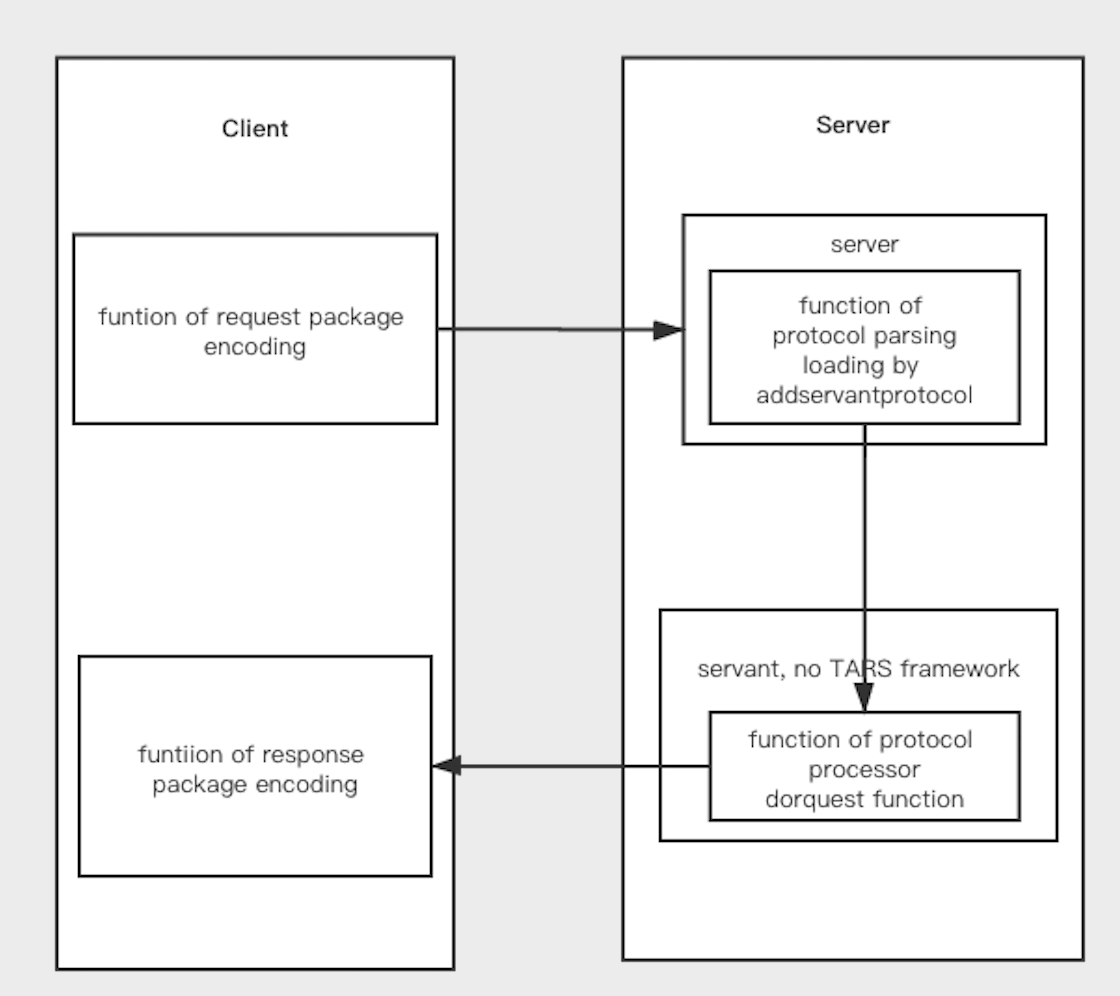
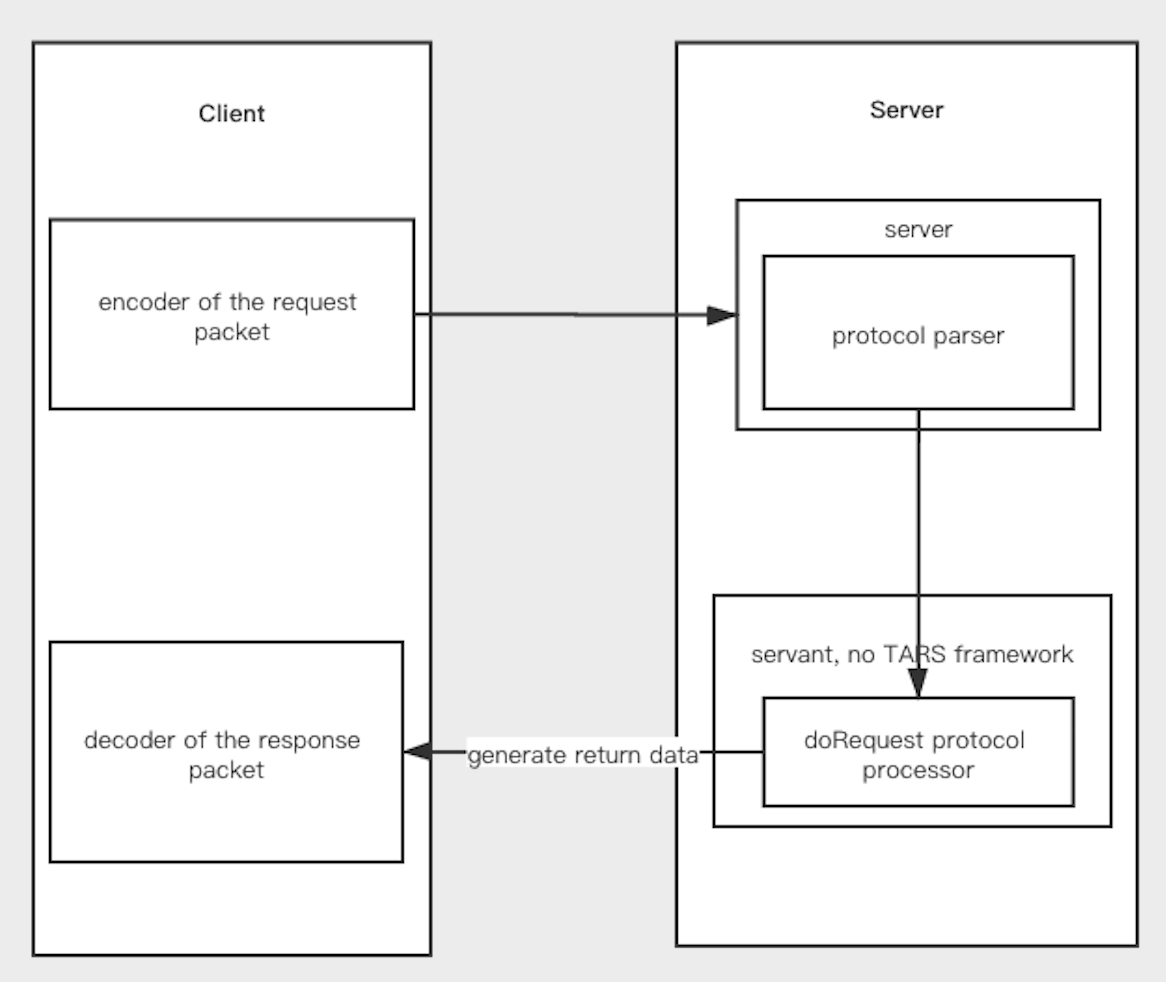
images translation

Changed region(s): [[0.0, 0.0305, 1.0, 0.9776], [0.7188, 0.0916, 0.8125, 0.1527], [0.1562, 0.0916, 0.25, 0.1527]]

diff --git a/demo/tarscpp/tars_cpp_quickstart.md b/demo/tarscpp/tars_cpp_quickstart.md
@@ -32,7 +32,7 @@ For Example：TestApp.HelloServer.HelloObj.
 
 When you login successfully, you will enter the Tars management system, as shown below:
 
-![tars](./images/tars_web_index.png)
+![tars](../../assets/tars_web_index1_en.png)
 
 Under the menu tree of the Tars management system, the following functions are available:
 
@@ -46,7 +46,7 @@ Service deployment can actually be done after service development, but it is rec
 
 As shown below：
 
-![tars](./images/tars_cpp_quickstart_bushu1.png)
+![tars](../../assets/tars_cpp_quickstart_bushu1_en.png)
 
 -	"Application" refers to which application your service program belongs to, for example: "TestApp".
 -   "Service name" refers to the identification name of your service program, for example: "HelloServer".
@@ -66,7 +66,7 @@ As shown below：
 
 Click "Submit", after success, the TestApp application under the menu will display the name of the HelloServer, and you will see the information of the new service program on the right side, as shown below.
 
-![tars](./images/tars_cpp_quickstart_bushu2.png)
+![tars](../../assets/tars_cpp_quickstart_bushu2_en.png)
 
 The deployment on the management system is temporarily completed, so far, it just makes your service occupy a position on the management system, the real program has not been released yet.
 
@@ -505,14 +505,14 @@ In the menu tree of the management system, find the service you deployed, click 
 
 first Select "Publish Management", then select the node to be published, then click "Publish Selected Node", and finally click "Upload Release Package", select the compiled package. As shown below:
 
-![tars](./images/tars_cpp_quickstart_upload.png)
+![tars](../../assets/tars_cpp_quickstart_upload_en.png)
 
  After the upload is successful, click the "Select Release Version" drop-down box and the service program you uploaded will appear. Select the top one (latest uploaded). As shown below:
 
- ![tars](./images/tars_cpp_quickstart_patch.png)
+ ![tars](../../assets/tars_cpp_quickstart_patch_en.png)
 
  Click "Publish", the service starts to be released, after the release is successful, the following interface appears, as shown below:
 
- ![tars](./images/tars_cpp_quickstart_patchresult.png)
+ ![tars](../../assets/tars_cpp_quickstart_patchresult_en.png)
  
 If it fails, it may be a naming problem, an upload problem, and other environmental issues.

diff --git a/demo/tarscpp/tars_push.md b/demo/tarscpp/tars_push.md
@@ -18,7 +18,7 @@ For example, see examples/pushDemo/.
 ## Flow chart of the push mode
 Here's a flow chart of the push mode
 
-![tars](../../assets/tars_flow.png)
+![tars](../../assets/tars_flow_en.png)
 
 - The black line represents the data flow : data(client) -〉 request packet encoder(client) -〉 protocol parser(server) -〉 doRequest protocol processor(server) -〉 return data generation(server) -〉 response packet decoder(client) -〉 response data (client)
 - The yellow line represents the client access server
@@ -38,7 +38,7 @@ Here's a flow chart of the push mode
 First we deploy a TestPushServant service in accordance with the code of the third-party protocol. 
 Deploy a server on the management platform as shown below
 
-![tars](../../assets/tars_push_deploy.png)
+![tars](../../assets/tars_push_deploy_en.png)
 
 Refer to the code that Tars supports third-party protocols:
 
